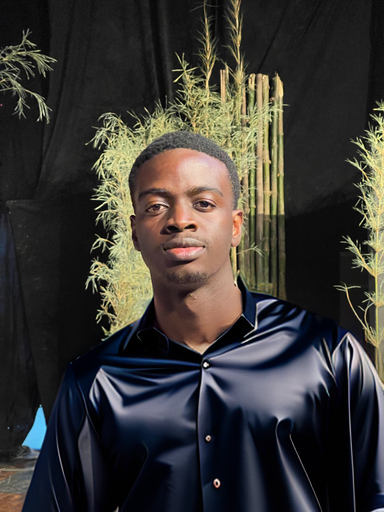
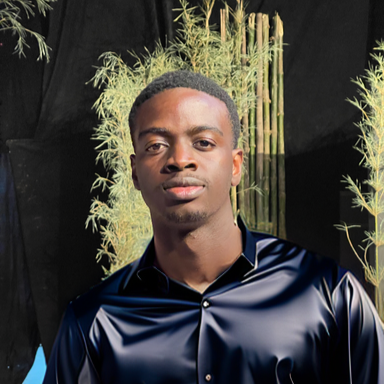
Portfolio site updates
- cropped profile photo
- added about section styling

diff --git a/style.css b/style.css
@@ -185,9 +185,9 @@ section {
     text-align: center;
 }
 
-.section__text__p1 {
+.section__text__p2 {
     font-size: 1.75rem;
-    text-align: center;
+    text-align: 1rem;
 }
 
 .title {
@@ -198,4 +198,61 @@ section {
 #socials-container {
     display: flex;
     justify-content: center;
+    margin-top: 1rem;
+    gap: 1rem;
+}
+
+/* ICONS */
+
+.icon {
+    cursor: pointer;
+    height: 2rem;
+}
+
+/* BUTTON */
+
+.btn-container {
+    display: flex;
+    justify-content: center;
+    gap: 1rem;
+}
+
+.btn {
+    font-weight: 600;
+    transition: all 300ms ease;
+    padding: 1rem;
+    width: 8rem;
+    border-radius: 2rem;
+}
+
+.btn-color-1,
+.btn-color-2 {
+    border: rgb(53, 53, 53) 0.1rem solid;
+}
+
+.btn-color-1:hover,
+.btn-color-2:hover {
+    cursor: pointer;
+}
+
+.btn-color-1,
+.btn-color-2:hover {
+    background: rgb(53, 53, 53);
+    color: white;
+}
+
+.btn-color-1:hover {
+    background: rgb(0, 0, 0);
+}
+
+.btn-color-2 {
+    background: none;
+}
+
+.btn-color-2:hover {
+    border: rgb(255, 255, 255) 0.1rem solid;
+}
+
+.btn-container {
+    gap: 1rem;
 }

diff --git a/index.html b/index.html
@@ -51,7 +51,7 @@
                         Download CV
                     </button>
                     <button class="btn btn-color-1" onclick="location.href='./#contact'">
-                        Download CV
+                        Contact Info
                     </button>
                 </div>
                 <div id="socials-container">
